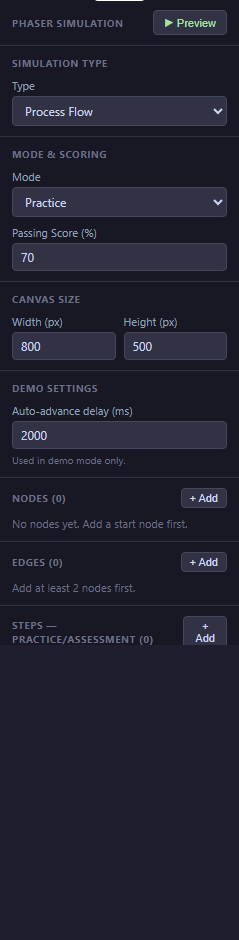
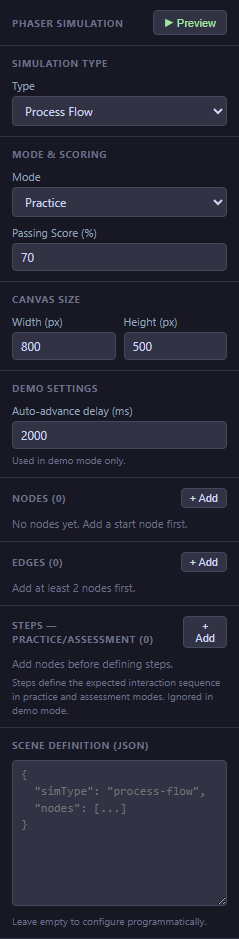
test(docs-screenshots): pass 3 — §14 sim-type builders with real JSON seeds
Pass 3/N of the User Manual v2 screenshot spec refactor (Category C
§14, sim-type builder panels).

Scope: 3 placeholders moved from fullpage safety net to clean crops
with the correct builder populated with realistic content.

- 14-diagram-builder     simType=interactive-diagram + backgroundImage
                         URL + 4 hotspots (Zona A/B/C/D)
- 14-quiz-builder        simType=gamified-quiz + timer 60 s + combo 1.5
                         + 3 sample questions
- 14-json-example        simType=process-flow + 3 nodes / 2 edges /
                         2 steps pasted into Scene Definition — exactly
                         the example cited in
                         docs/user-manual-v2-scope.md §14

Spec changes (docs-screenshots.spec.ts):
- captureTallWidgetProps(filename, panelTestId) — helper extracted from
  the §10 inline pattern. Expands viewport to 3000 px, overrides
  overflow/max-height/flex on the panel AND the Properties aside,
  reads bbox after scroll-into-view, captures with
  page.screenshot({ fullPage: true, clip: box }), and restores
  everything in finally. Reused for 4 §14 captures.
- pasteSceneDef(json) — fills the Scene Definition textarea and calls
  blur so the onBlur handler parses and persists sceneDef. A brief
  wait lets the builder sections re-render from the new shape.
- Replaced the 3 §14 captureFullPage fallbacks with the real flow:
  simType select → JSON paste → captureTallWidgetProps.
[…]

diff --git a/e2e/tests/docs-screenshots.spec.ts b/e2e/tests/docs-screenshots.spec.ts
@@ -702,18 +702,144 @@ test('Manual v2 screenshot campaign', async ({ editorPage, page }) => {
     await captureFullPage(page, '14-builder-types.png')
   }
 
-  // 14-processflow-builder.png — keep simType=process-flow (default) and
-  // capture the Props panel. No JSON paste yet; crop from the snapshot.
-  await captureWidgetProps('14-processflow-builder.png', 'phaser-sim-properties-panel')
+  // Tall-panel capture helper: the Phaser sim Props panel can exceed the
+  // viewport when a builder populates nodes / hotspots / questions, so we
+  // expand the viewport and use page.screenshot({ fullPage: true, clip })
+  // — same trick as §10's action rows. The CSS overrides neutralise the
+  // flex-shrink + overflow that would otherwise clip the panel.
+  async function captureTallWidgetProps(
+    filename: string,
+    panelTestId: string,
+  ): Promise<void> {
+    const originalVp = page.viewportSize()!
+    await page.setViewportSize({ width: originalVp.width, height: 3000 })
+    const style = await page.addStyleTag({
+      content: `[data-testid="${panelTestId}"] {
+        overflow: visible !important;
+        height: auto !important;
+        max-height: none !important;
+        flex: 0 0 auto !important;
+      }
+      aside[aria-label="Properties"] {
+        overflow: visible !important;
+        max-height: none !important;
+      }`,
+    })
+    try {
+      const panel = page.locator(`[data-testid="${panelTestId}"]`).first()
+      await panel.waitFor({ state: 'visible', timeout: 5000 })
+      await panel.scrollIntoViewIfNeeded()
+      const box = await panel.boundingBox()
+      if (!box) throw new Error(`captureTallWidgetProps(${filename}): no bbox`)
+      await page.screenshot({
+        path: SCREENSHOTS_DIR + '/' + filename,
+        type: 'png',
+        fullPage: true,
+        clip: box,
+      })
+      // eslint-disable-next-line no-console
+      console.log(`[docs-screenshots] wrote ${filename} (element)`)
+    } catch {
+      await captureFullPage(page, filename)
+    } finally {
+      await style.evaluate((el: Node) => {
+        if (el instanceof Element) el.remove()
+      })
+      await page.setViewportSize(originalVp)
+    }
+  }
 
-  // 14-diagram-builder.png — needs simType=diagram with background + hotspots.
-  // 14-quiz-builder.png — needs simType=quiz with timer/lives/combo.
-  // 14-json-example.png — Scene Definition field with JSON pasted.
-  // All three require UI state this script cannot seed reliably; emit
-  // full-page safety nets so the author can crop from a known shot.
-  await captureFullPage(page, '14-diagram-builder.png')
-  await captureFullPage(page, '14-quiz-builder.png')
-  await captureFullPage(page, '14-json-example.png')
+  // Helper: commit a JSON string to the Scene Definition textarea. The
+  // panel listens to onBlur to parse and persist sceneDef, so blur must
+  // fire before the new shape is reflected in the builder UI.
+  async function pasteSceneDef(json: string): Promise<void> {
+    const textarea = page
+      .locator('[data-testid="phaser-sim-properties-panel"] textarea')
+      .first()
+    await textarea.waitFor({ state: 'visible', timeout: 3000 })
+    await textarea.fill(json)
+    await textarea.blur()
+    // Let the panel re-parse sceneDef and the builder sub-sections re-render.
+    await page.waitForTimeout(400)
+  }
+
+  // 14-processflow-builder.png — simType=process-flow (default). Panel
+  // empty of nodes; the shot shows the builder skeleton (Nodes/Edges/
+  // Steps sections + Scene Definition textarea).
+  await captureTallWidgetProps('14-processflow-builder.png', 'phaser-sim-properties-panel')
+
+  const simTypeSelect = page.locator(simTypeSelector)
+
+  // 14-diagram-builder.png — simType=interactive-diagram + a JSON seed so
+  // the Background Image URL is populated and 4 hotspots render.
+  try {
+    await simTypeSelect.selectOption('interactive-diagram', { timeout: 5000 })
+    await page.waitForTimeout(300)
+    await pasteSceneDef(JSON.stringify({
+      simType: 'interactive-diagram',
+      backgroundImageUrl: 'https://storage.example.com/assets/diagram.png',
+      hotspots: [
+        { id: 'h1', x: 100, y: 100, width: 60, height: 60, label: 'Zona A', correct: true },
+        { id: 'h2', x: 220, y: 100, width: 60, height: 60, label: 'Zona B', correct: false },
+        { id: 'h3', x: 340, y: 100, width: 60, height: 60, label: 'Zona C', correct: false },
+        { id: 'h4', x: 460, y: 100, width: 60, height: 60, label: 'Zona D', correct: false },
+      ],
+    }, null, 2))
+    await captureTallWidgetProps('14-diagram-builder.png', 'phaser-sim-properties-panel')
+  } catch {
+    await captureFullPage(page, '14-diagram-builder.png')
+  }
+
+  // 14-quiz-builder.png — simType=gamified-quiz + a JSON seed with timer,
+  // lives, combo and three questions.
+  try {
+    await simTypeSelect.selectOption('gamified-quiz', { timeout: 5000 })
+    await page.waitForTimeout(300)
+    await pasteSceneDef(JSON.stringify({
+      simType: 'gamified-quiz',
+      timerSeconds: 60,
+      lives: 3,
+      comboMultiplier: 1.5,
+      questions: [
+        { id: 'q1', text: '¿Cuál es 2+2?', options: ['3', '4', '5'], correctIndex: 1, points: 10 },
+        { id: 'q2', text: '¿Qué significa HTML?', options: ['Lenguaje de marcado', 'Hoja de estilo', 'Un script'], correctIndex: 0, points: 10 },
+        { id: 'q3', text: 'Capital de Francia', options: ['Londres', 'Madrid', 'París'], correctIndex: 2, points: 10 },
+      ],
+    }, null, 2))
+    await captureTallWidgetProps('14-quiz-builder.png', 'phaser-sim-properties-panel')
+  } catch {
+    await captureFullPage(page, '14-quiz-builder.png')
+  }
+
+  // 14-json-example.png — simType back to process-flow with a realistic
+  // 3-nodes / 2-edges / 2-steps scene pasted into Scene Definition. The
+  // tall capture covers both the populated builder sections AND the JSON
+  // textarea at the bottom of the panel so the reader sees the full
+  // Scene-Definition → builders correspondence.
+  try {
+    await simTypeSelect.selectOption('process-flow', { timeout: 5000 })
+    await page.waitForTimeout(300)
+    await pasteSceneDef(JSON.stringify({
+      simType: 'process-flow',
+      nodes: [
+        { id: 'start', x: 100, y: 200, label: 'Ticket creado', type: 'start' },
+        { id: 'triage', x: 300, y: 200, label: 'Triage L1', type: 'step' },
+        { id: 'resolve', x: 500, y: 200, label: 'Resolver', type: 'decision' },
+      ],
+      edges: [
+        { from: 'start', to: 'triage' },
+        { from: 'triage', to: 'resolve' },
+      ],
+      interactionMode: 'practice',
+      steps: [
+        { nodeId: 'triage', instruction: '¿Qué haces primero?', correctAction: 'click' },
+        { nodeId: 'resolve', instruction: '¿Lo resuelves o escalas?', correctAction: 'click' },
+      ],
+    }, null, 2))
+    await captureTallWidgetProps('14-json-example.png', 'phaser-sim-properties-panel')
+  } catch {
+    await captureFullPage(page, '14-json-example.png')
+  }
 
   // -------------------------------------------------------------------------
   // §15 — Preview + §16 — Publish SCORM (top-toolbar crops)
